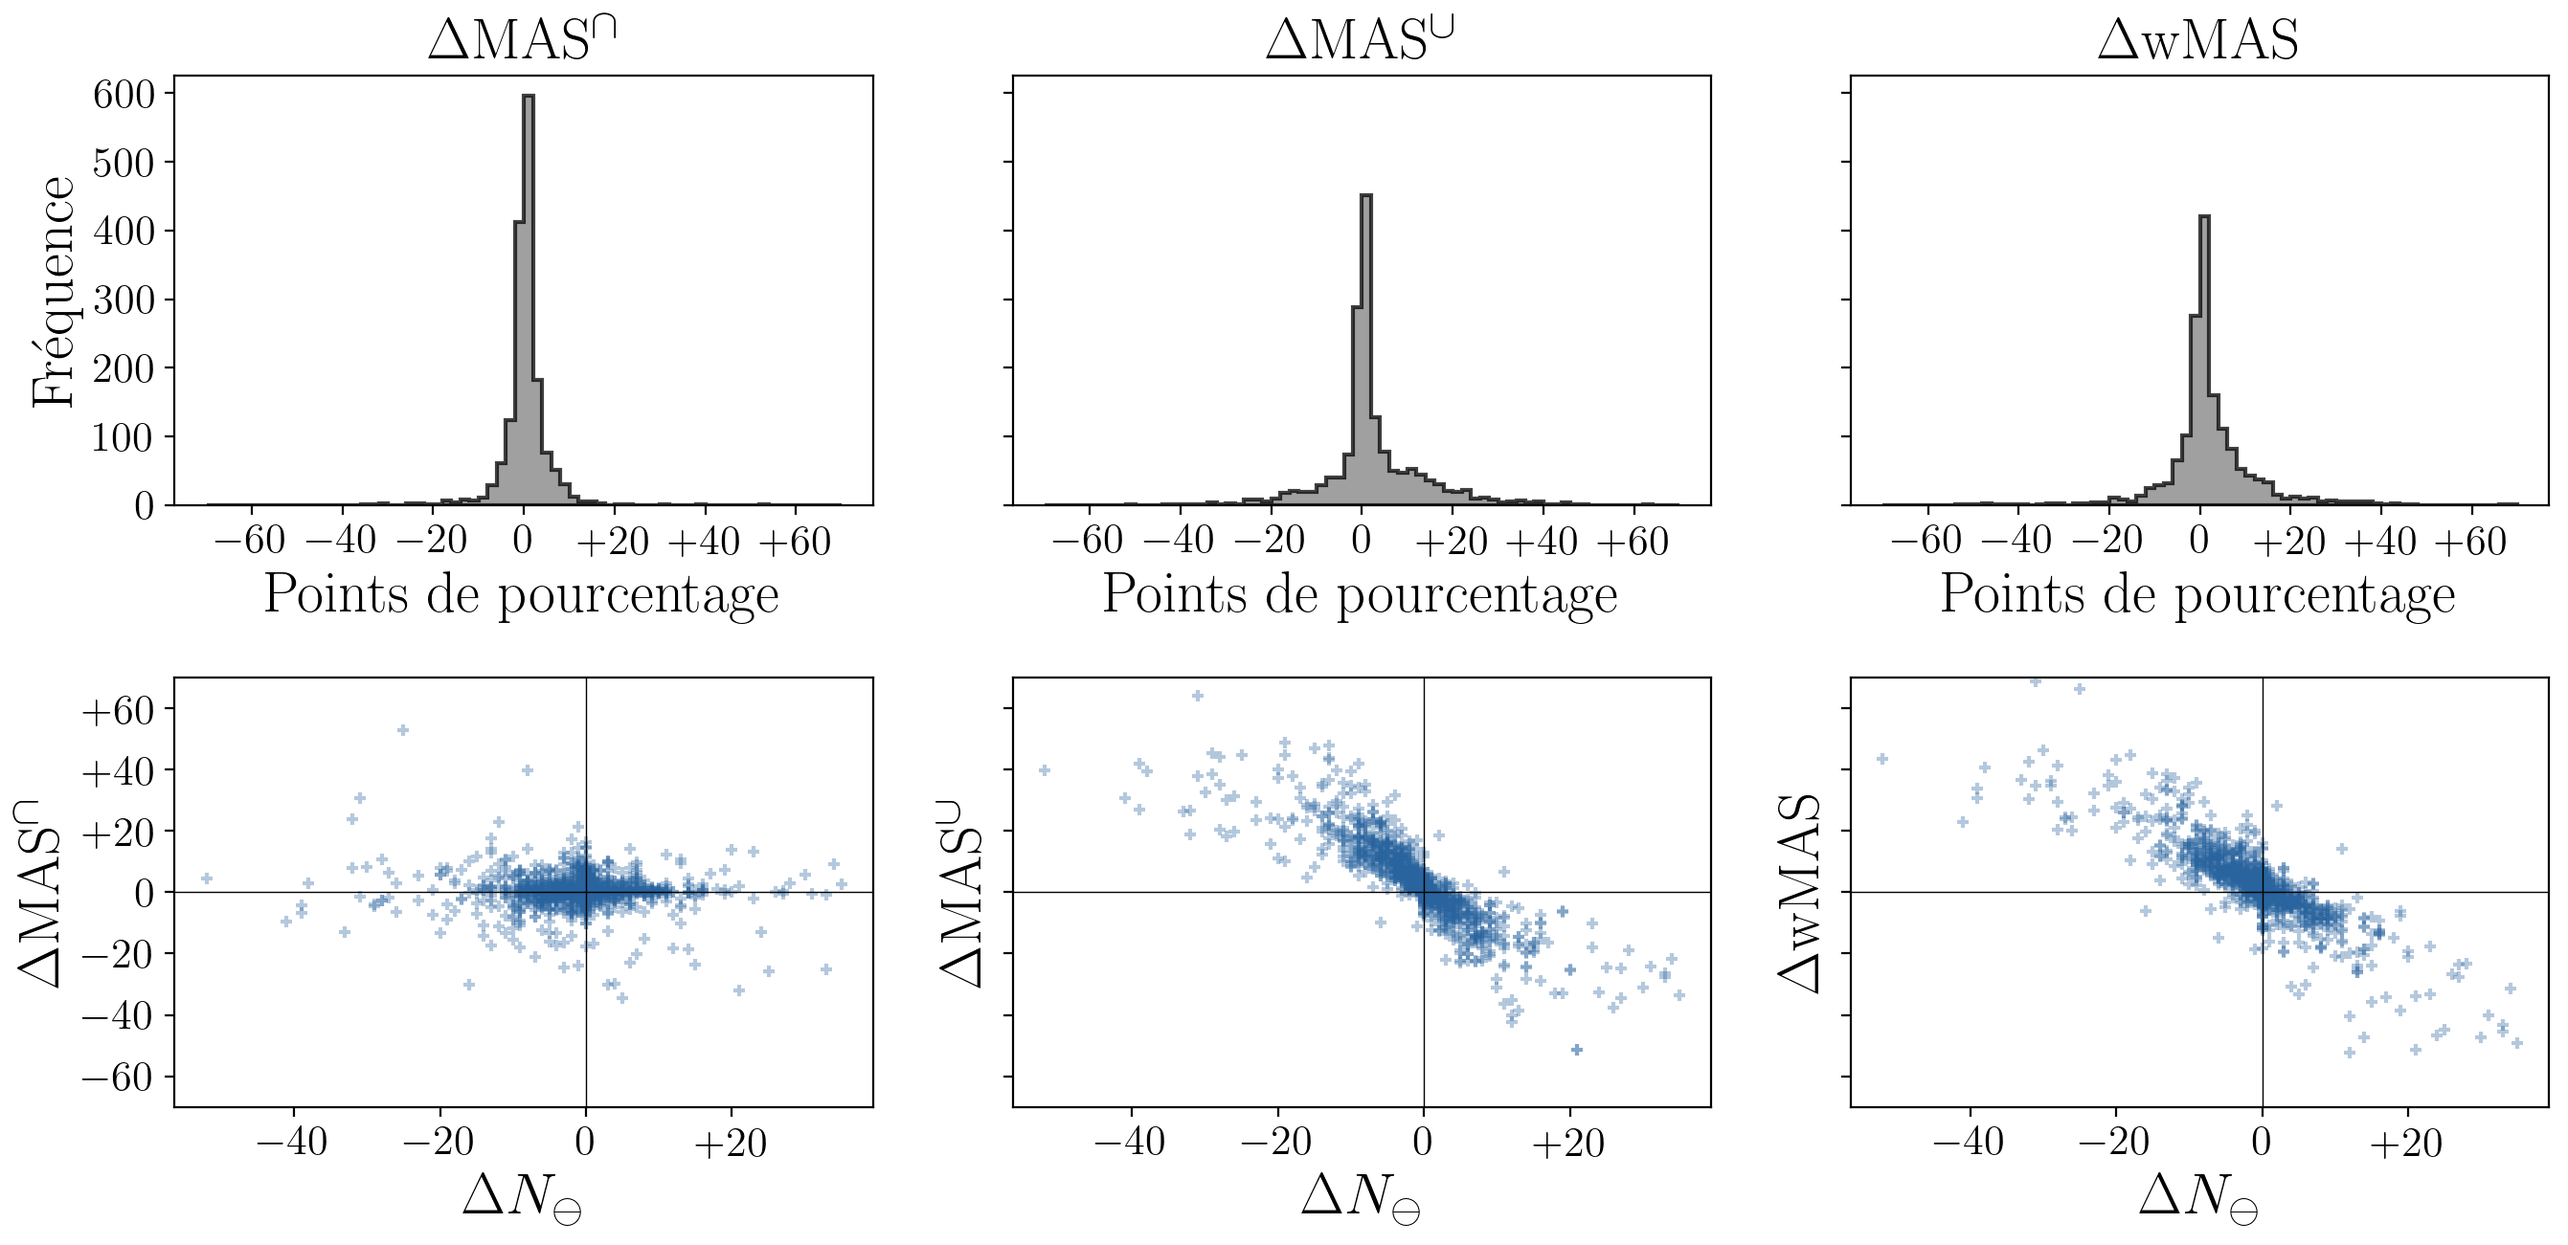
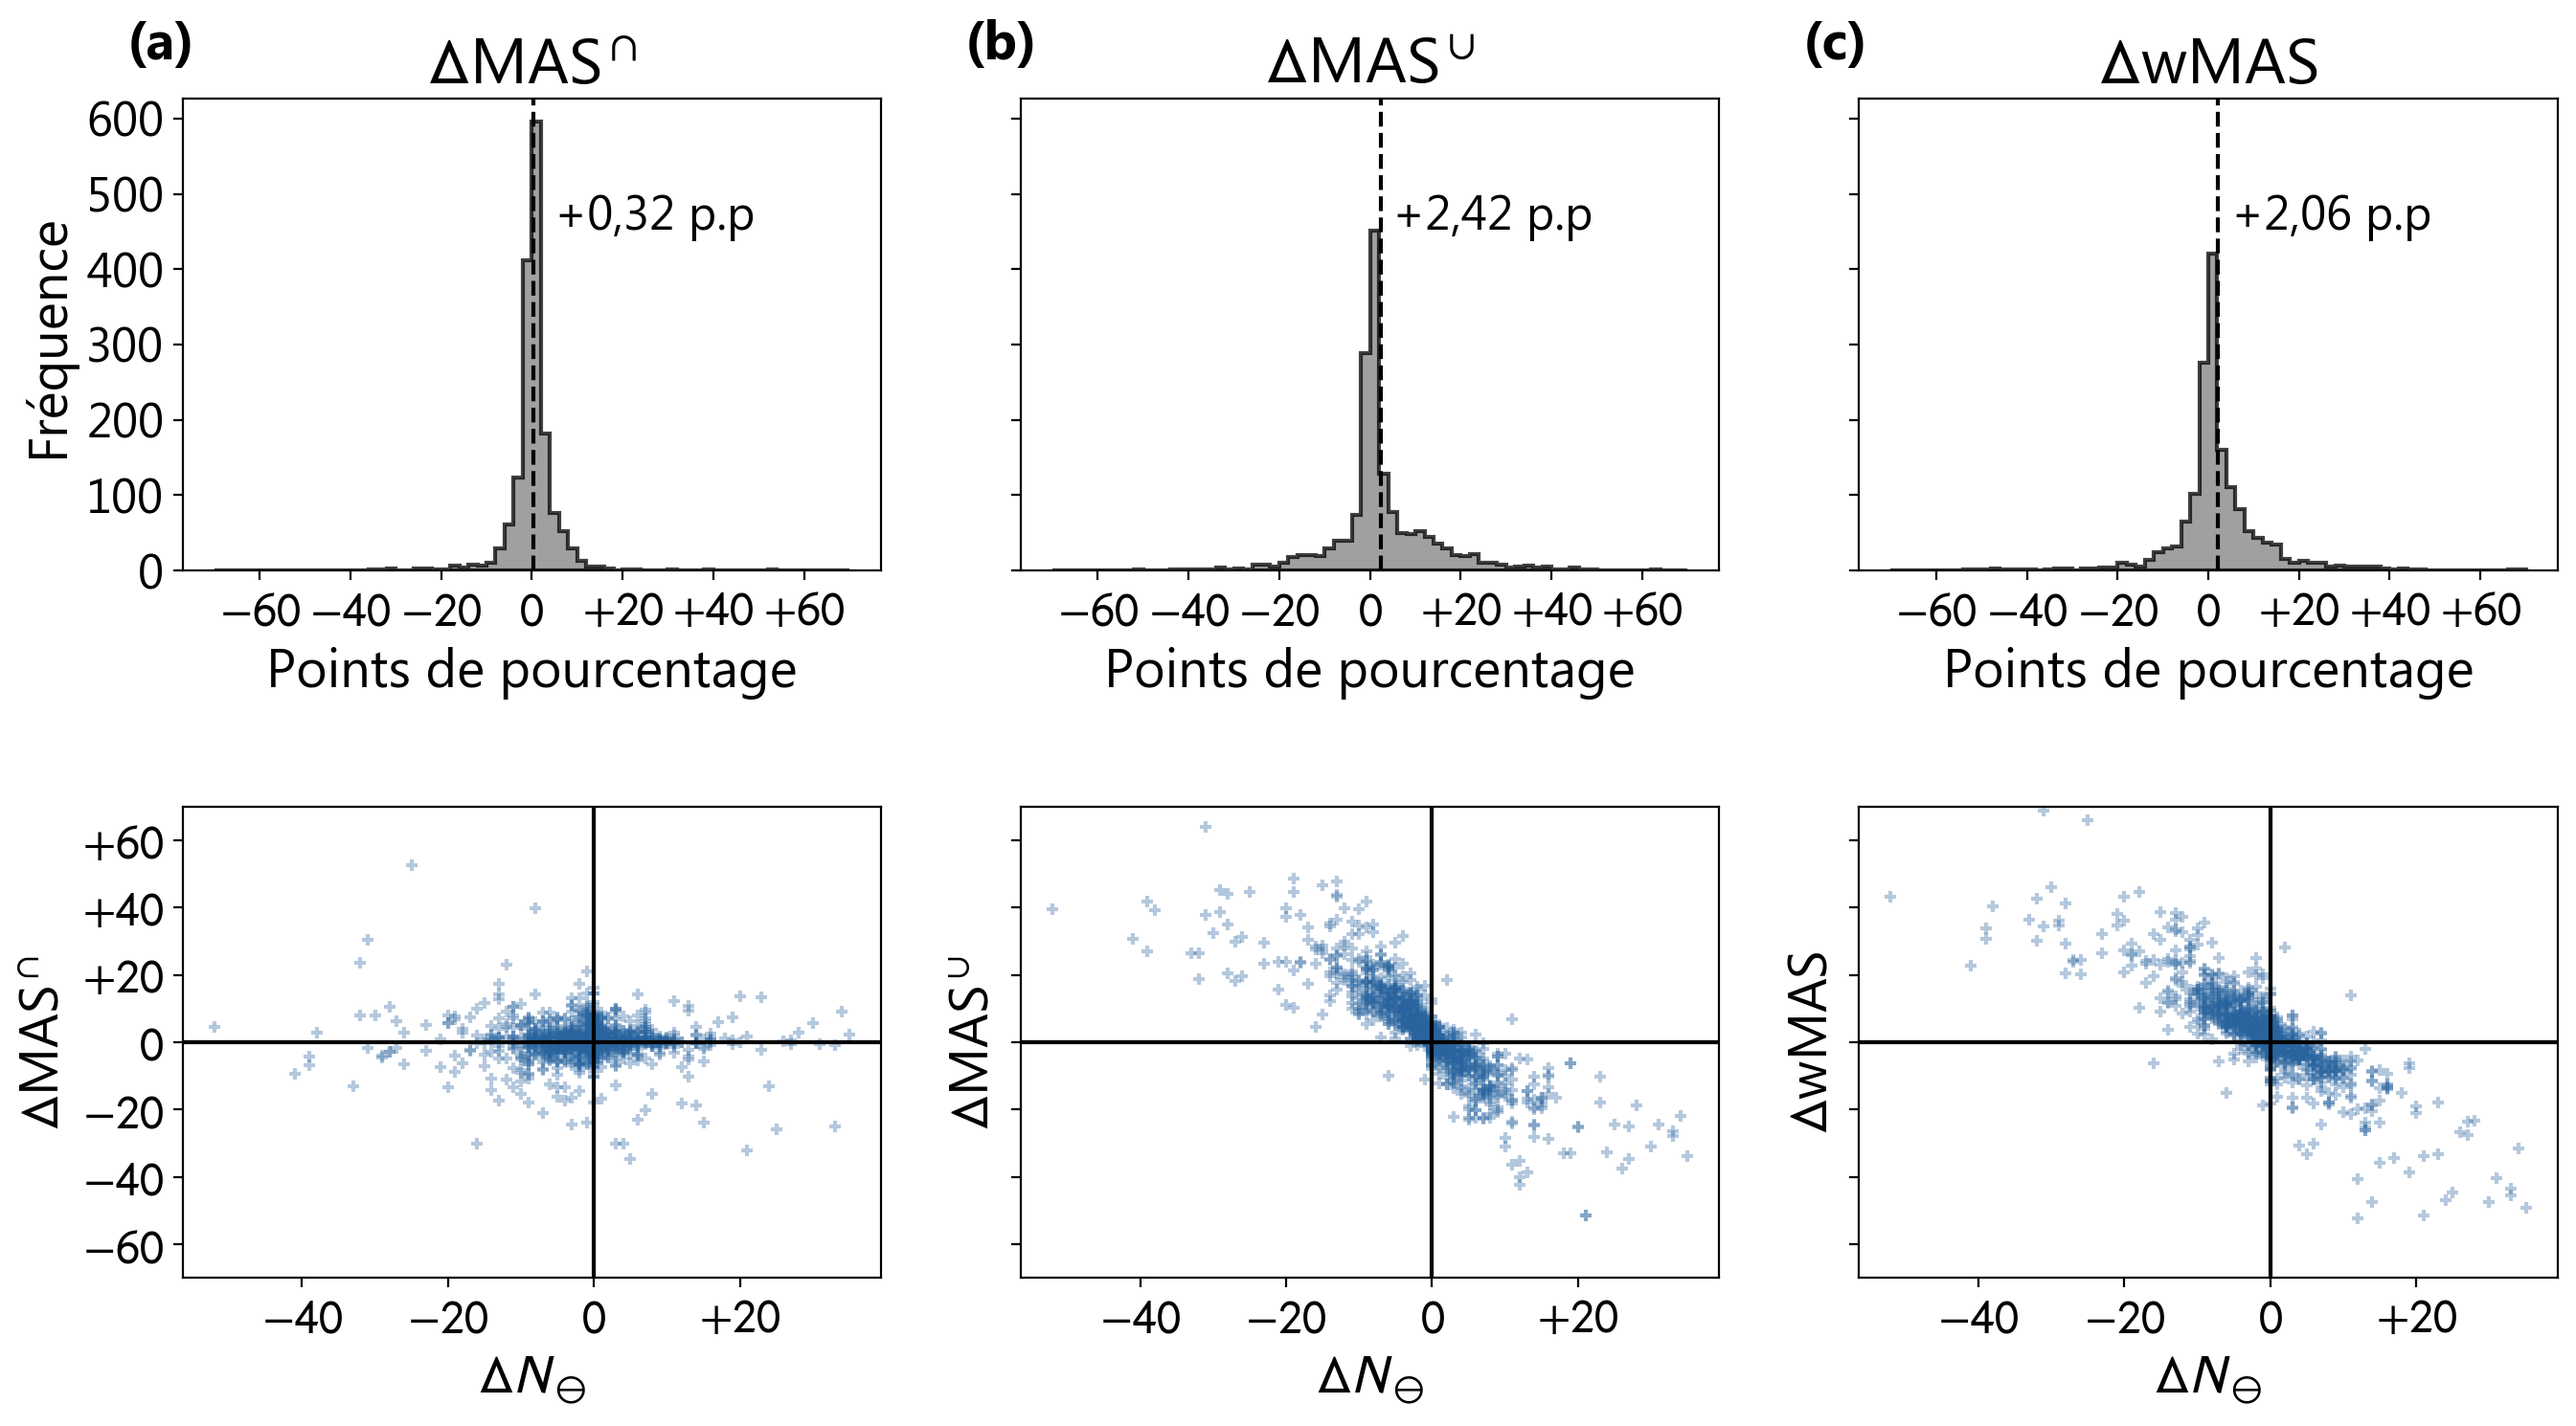
Avancement diapos

diff --git a/main.tex b/main.tex
@@ -1066,6 +1066,7 @@
                             \item Paramètre de relaxation \alert{identique} (25$\cdot$10$^{\text{-5}}$ s$^{\text{-1}}$)
                         \end{itemize}
                \end{itemize}
+               $\longrightarrow$ \alert{Deux trajectoires} ERA5 pour chaque trajectoire IBTrACS
            \end{block}
         \end{column}
         \begin{column}{0.4\textwidth}
@@ -1085,20 +1086,50 @@
     \begin{columns}
         \begin{column}{0.7\textwidth}
             \begin{center}
-                \includegraphics[width=\textwidth]{Figures/delta_MAS.png}
+                \includegraphics<1>[width=\textwidth]{Figures/delta_MAS_hists_only.png}%
+                %\includegraphics<2>[width=\textwidth]{Figures/delta_MAS.png}%
+                \includegraphics<2->[width=\textwidth]{Figures/delta_MAS_fit.png}%
             \end{center}
         \end{column}
         \begin{column}{0.3\textwidth}
-            Présenter aussi pour $N_\ominus = 0$ et $N_\cap = 0$
+            \footnotesize
+            \onslide<2->{
+                \begin{block}
+                    $\overline{\Delta N_\ominus} =$ -0,8 échéances\\
+                    \vspace{\baselineskip}
+                    $\longrightarrow$ Amélioration de la similarité par \alert{réduction} da la différence de temporalité
+                \end{block}
+            }
+            %
+            \onslide<3->{
+                \vspace{1em}
+                \begin{alertblock}[Lorsque {$\Delta N_\ominus = 0$} \underline{et} {$\Delta N_\cap = 0$}]
+                    À temporalité \alert{inchangée} ($n =$ 691) :
+                    \begin{enumerate}[(a)]
+                        \item $\overline{\Delta \text{MAS}^\cap} =$ +0,57 p.p
+                        \item $\overline{\Delta \text{MAS}^\cup} =$ +0,34 p.p
+                        \item $\overline{\Delta \text{wMAS}} =$ +0,54 p.p
+                    \end{enumerate}
+                \end{alertblock}
+            }
         \end{column}
     \end{columns}
 \end{frame}
 
 %=========================================================
 \begin{frame}
-    \frametitle{Similarité des trajectories}
+    \frametitle{Détection et suivi des TC dans ERA5}
     \framesubtitle{Synthèse}
-        Synthèse de cette partie ? Voire de toute la section tracking avant de passer à la suite ?
+    \begin{block}[Messages clefs]
+        \small
+        \begin{enumerate}
+            \setlength\itemsep{1em}
+            \item<1-> Utilisation de la réanalyse ERA5 pour caractériser le schéma de détection du CNRM
+            \item<2-> Appariement des trajectoires détectées avec les trajectoires observées
+            \item<3-> Métrique FAR et POD : Détection binaire
+            \item<4-> Métrique de similarité des trajectoires : Combine une information sur la position et sur la durée
+        \end{enumerate}
+    \end{block}
 \end{frame}
 
 %=========================================================
